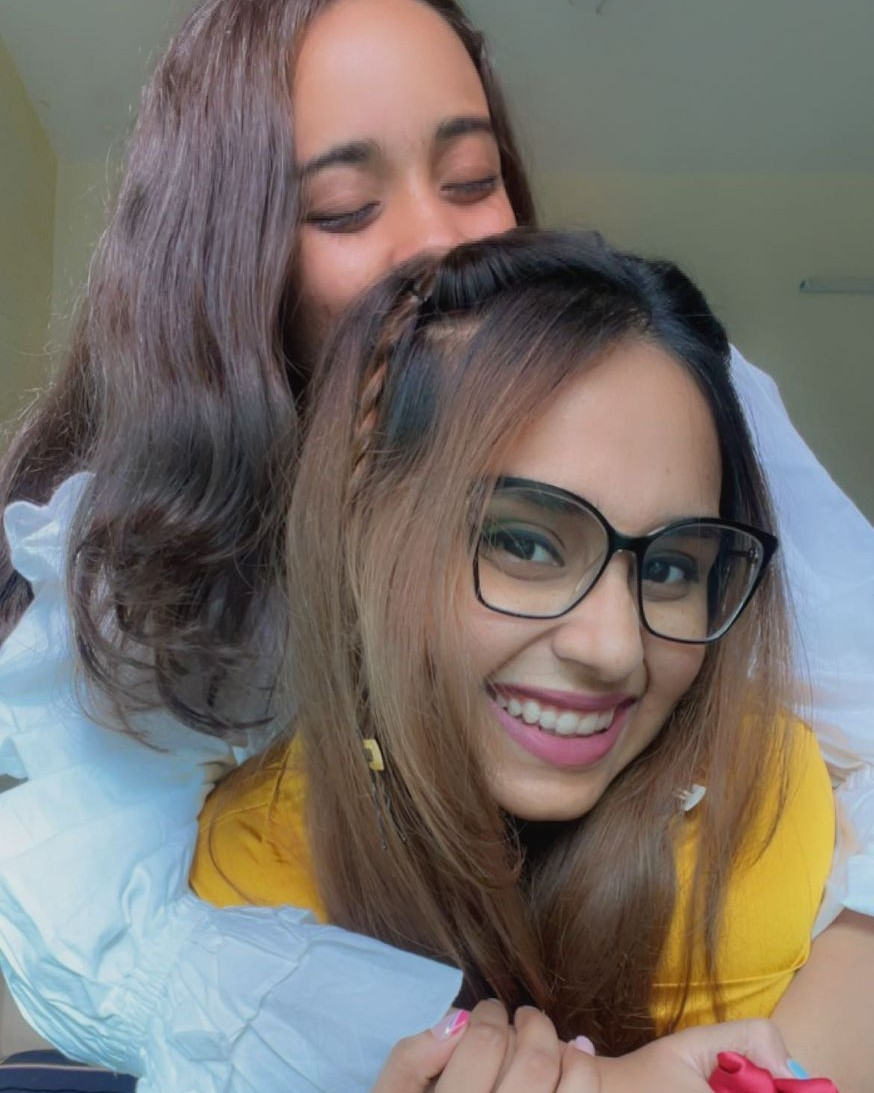
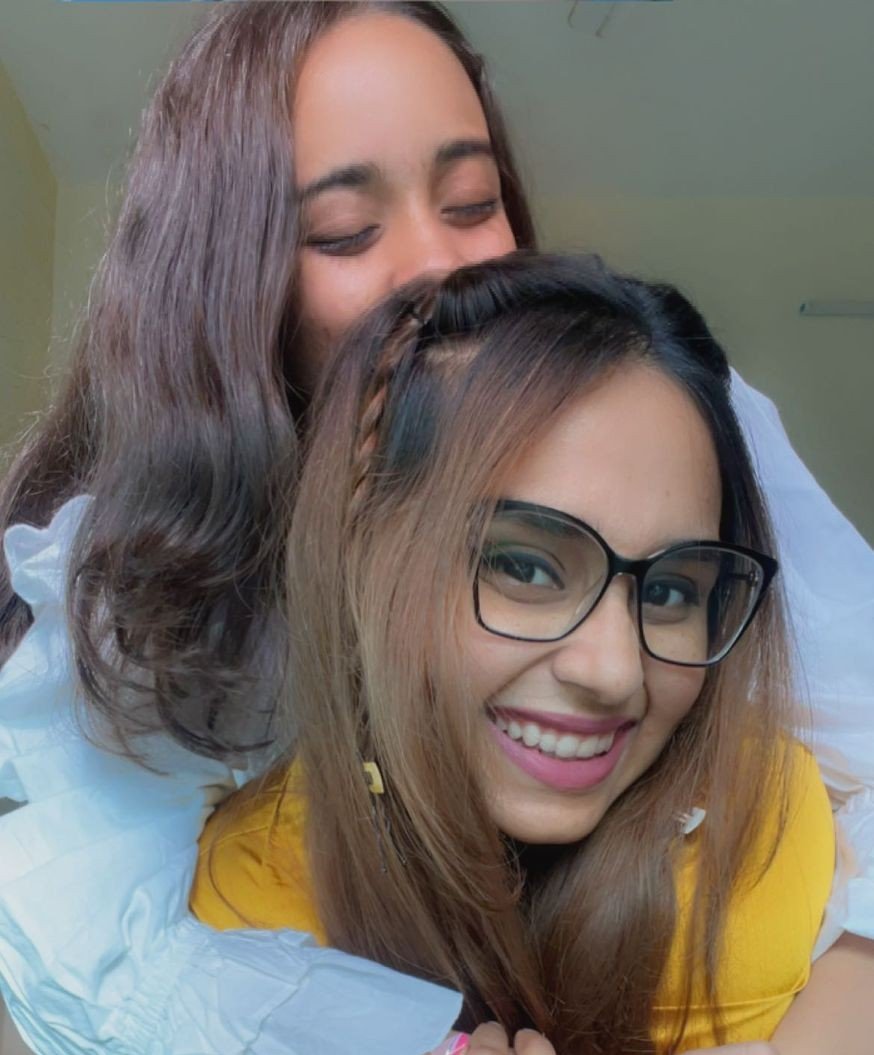
music playerphoto2

diff --git a/music.html b/music.html
@@ -39,7 +39,7 @@
         /* Music Card */
         .player-card {
             width: 270px;
-            height: auto;
+            height: 270px;
             background: #dbd3c3;
             border-radius: 10px;
             position: absolute;
@@ -49,7 +49,7 @@
             display: flex;
             flex-direction: column;
             align-items: center;
-            padding: 16px 20px;
+            padding: 12px 20px;
             box-shadow: 0 12px 25px rgba(0, 0, 0, 0.4), inset 0 0 0 1px rgba(255, 255, 255, 0.5);
             z-index: 2;
         }
@@ -63,7 +63,7 @@
             color: #8d0000;
             font-size: 18px;
             font-weight: 600;
-            margin-bottom: 12px;
+            margin-bottom: 8px;
             letter-spacing: 0.5px;
         }
 
@@ -74,26 +74,44 @@
 
         .photo-frame {
             width: 100%;
-            aspect-ratio: 4 / 5;
+            height: 160px;
             background: #222;
             border: none;
             overflow: hidden;
             border-radius: 4px;
             box-shadow: inset 0 6px 12px rgba(0, 0, 0, 0.7), inset 0 2px 4px rgba(0, 0, 0, 0.4);
             flex-shrink: 0;
+            display: flex;
+            justify-content: center;
+            align-items: center;
+            position: relative;
         }
 
-        .photo-frame img {
+        .blur-bg {
+            position: absolute;
+            top: 0;
+            left: 0;
             width: 100%;
             height: 100%;
             object-fit: cover;
+            filter: blur(12px) grayscale(100%);
+            opacity: 0.5;
+            z-index: 1;
+        }
+
+        .photo-frame img#cover {
+            position: relative;
+            z-index: 2;
+            width: 100%;
+            height: 100%;
+            object-fit: contain;
             filter: grayscale(100%);
-            opacity: 0.9;
+            opacity: 0.95;
         }
 
         /* Controls */
         .controls {
-            margin-top: 12px;
+            margin-top: 10px;
             display: flex;
             align-items: center;
             justify-content: center;
@@ -132,7 +150,7 @@
         /* Progress Bar */
         .progress-container {
             width: 85%;
-            margin-top: 14px;
+            margin-top: 8px;
             position: relative;
             cursor: pointer;
         }
@@ -178,7 +196,7 @@
         /* Mobile */
         @media(max-width: 500px) {
             .player-card {
-                width: 85%;
+                width: 60%;
                 max-width: 320px;
                 height: auto;
                 padding: 20px 20px;
@@ -190,7 +208,7 @@
 
             .photo-frame {
                 width: 100%;
-                aspect-ratio: 4 / 5;
+                height: 160px;
             }
         }
     </style>
@@ -211,6 +229,7 @@
 
             <!-- Replaceable Photo -->
             <div class="photo-frame">
+                <img src="music1.jpeg" class="blur-bg" alt="bg">
                 <img src="music1.jpeg" id="cover" alt="cover">
             </div>
 
